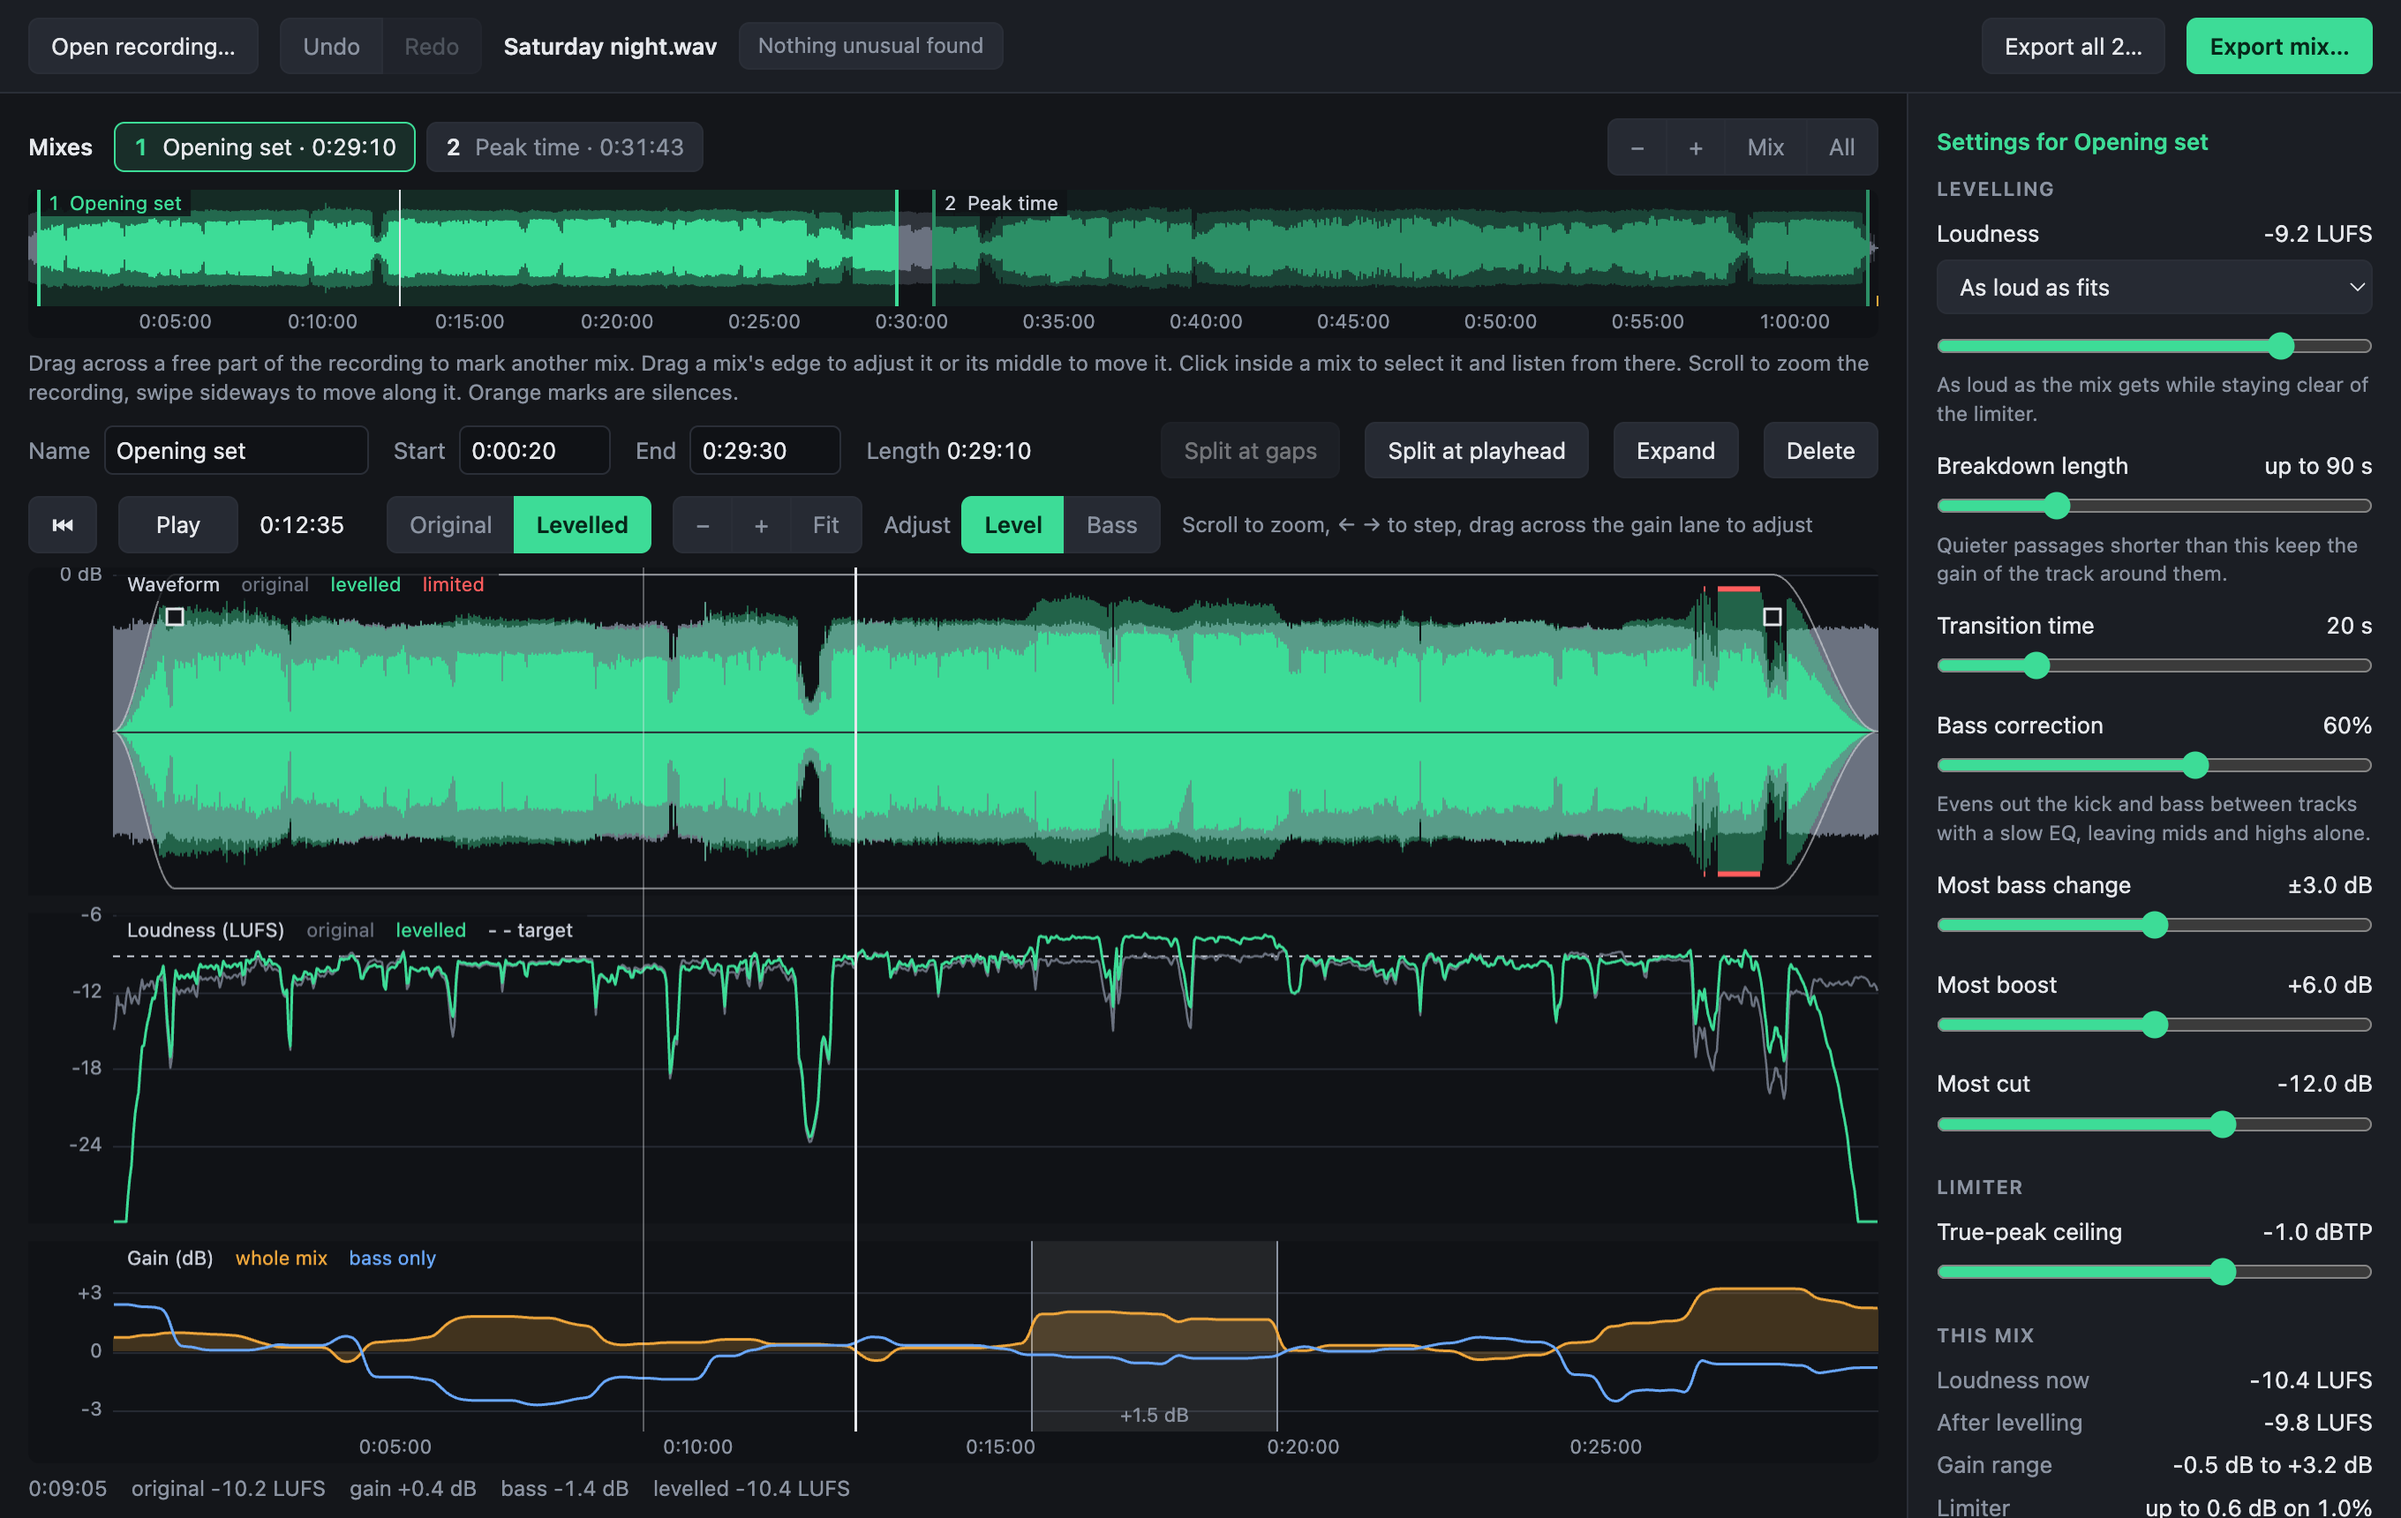
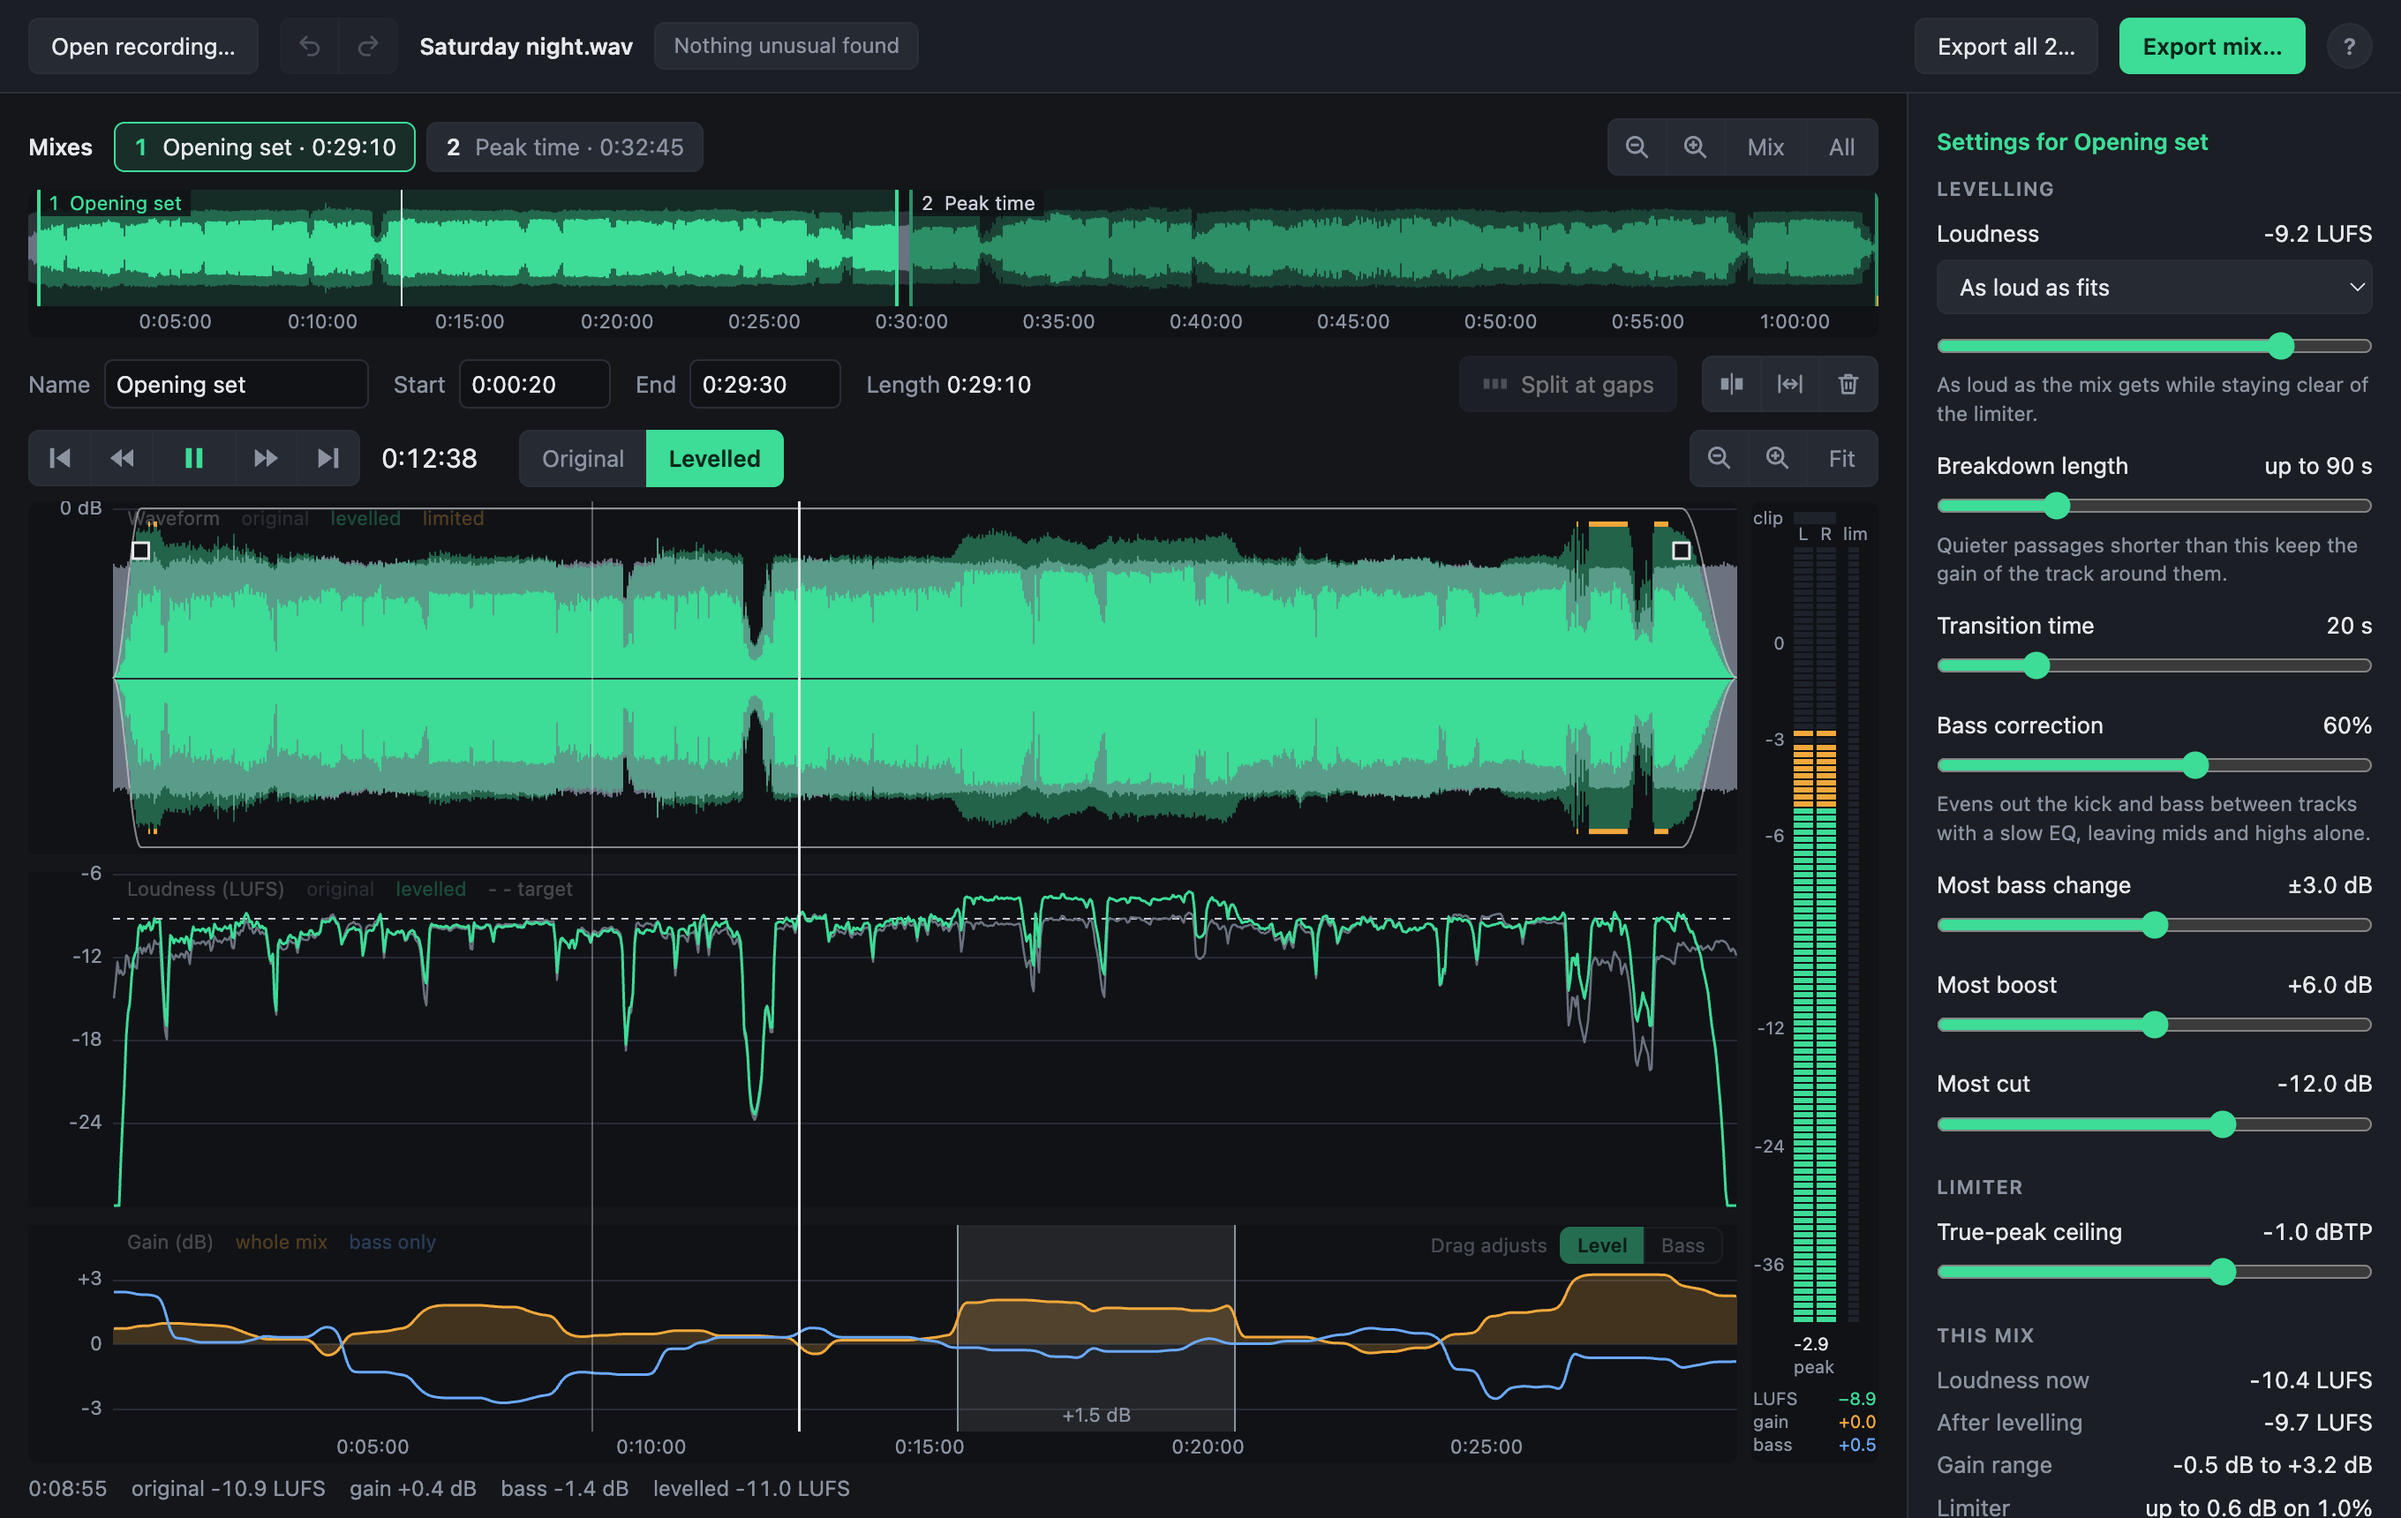
Retake the screenshot and note the unfinished layout idea
The picture on the website and in the README shows the window as it is now:
the transport, the icons and the level meter.

Also keeps a hair under zero from reading as "−0.0" under the meter.

diff --git a/src/app/renderer/renderer.ts b/src/app/renderer/renderer.ts
@@ -1036,7 +1036,11 @@ function seek(seconds: number) {
 }
 
 /** A change in dB as it reads in the narrow column under the meter. */
-const signed = (value: number) => `${value >= 0 ? '+' : '−'}${Math.abs(value).toFixed(1)}`;
+function signed(value: number): string {
+  // Rounded first, so that a hair under zero does not read as "−0.0".
+  const rounded = Math.round(value * 10) / 10;
+  return `${rounded >= 0 ? '+' : '−'}${Math.abs(rounded).toFixed(1)}`;
+}
 
 /**
  * The figures under the meter: the loudness at the playhead and what the

diff --git a/TASKS.md b/TASKS.md
@@ -239,6 +239,17 @@ interface to the library; the stock builds work on files held in memory,
 which an 8-hour recording does not fit. Revisit if per-platform binaries
 become a burden or a web version is wanted.
 
+### Set the recording and the selected mix apart
+
+The top of the window is about the whole recording (the mix tabs, its
+timeline, and the row that names, places, splits and deletes a mix); below it
+are the transport, curves and meter of the one selected mix. Nothing on
+screen says so, and the two rows of buttons where they meet read as one.
+
+Tried and taken out again: a bordered box around each half, with the mix's
+name leading the lower one. It made the window feel cramped. Something
+lighter is wanted: a thin line, more space at the join, or a quiet heading.
+
 ### A window test suite
 
 The window is checked with one-off scripts (see AGENTS.md). Keeping a few of
